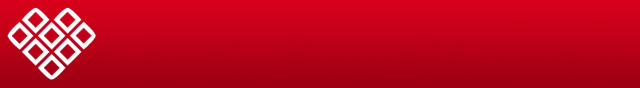
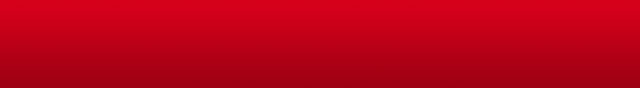
Toevoegen gestijld

Changed region(s): [[0.0, 0.0909, 0.1562, 0.9091]]

diff --git a/Bredapp/ToevoegenWatViewController.m b/Bredapp/ToevoegenWatViewController.m
@@ -36,6 +36,16 @@
     [super viewDidLoad];
 	// Do any additional setup after loading the view.
     
+    // Custom buttons
+//    UIButton *back = [UIButton buttonWithType:UIButtonTypeCustom];
+//    UIImage *backImage = [UIImage imageNamed:@"back_button.png"];
+//    [back setBackgroundImage:backImage forState:UIControlStateNormal];
+//    [back addTarget:self action:@selector(cancel:) forControlEvents:UIControlEventTouchUpInside];
+//    back.frame = CGRectMake(50, 20, 51, 43);
+//    
+//    UIBarButtonItem *backButton = [[UIBarButtonItem alloc] initWithCustomView:back];
+//    self.navigationItem.leftBarButtonItem = backButton;
+    
     myApp = (AppDelegate *) [[UIApplication sharedApplication] delegate];
     self.managedObjectContext = [myApp managedObjectContext];
     categorieen = [[NSMutableArray alloc]init];
